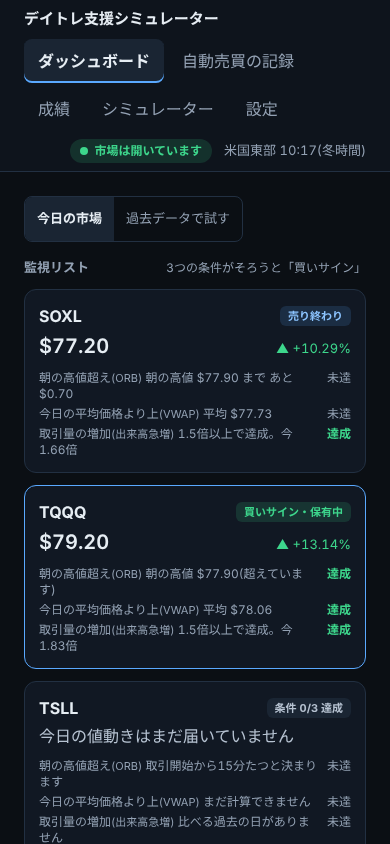
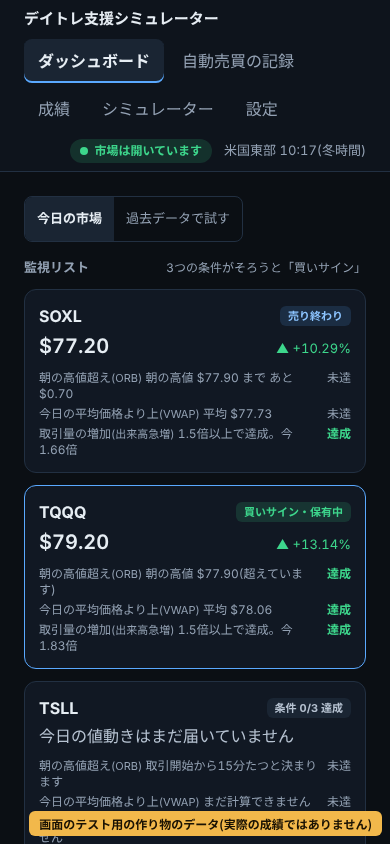
T12: レビューの指摘を直す
- 公開の材料を事実どおりに(gitleaks の失敗の記録、確かめていないこと、push protection の手順、名前の出る場所)
- README の書きすぎを直す(人間が決めた範囲、税金、測った条件、想定の利益率)
- 画像に作り物のデータの印を入れて撮り直す
- Tab で移動してもグラフの中で止まらないテスト、軸の目盛りの純粋関数と単体テスト

Claude-Session: https://claude.ai/code/session_01AvZ3VdHPvWiDQEuFMwCgxG

Changed region(s): [[0.0615, 0.955, 0.9846, 1.0]]

diff --git a/src/components/results/results-view.tsx b/src/components/results/results-view.tsx
@@ -9,6 +9,7 @@ import { formatSignedJpy, formatSignedRatio } from "@/components/dashboard/dashb
 import { formatDateJa, formatEasternDateTime, formatJpy } from "@/components/settings/format";
 import { cn } from "@/components/ui/cn";
 import { useRemoveChartLayersFromTabOrder } from "@/components/ui/use-chart-tab-order";
+import { pnlAxis } from "./results-model";
 
 type LoadState = { status: "loading" } | { status: "error" } | { status: "ready"; view: View };
 
@@ -140,13 +141,6 @@ function Fact({ label, children }: { label: string; children: React.ReactNode })
   );
 }
 
-/** 軸の端を切りのよい値にする(-86 は -90、1,234 は 2,000) */
-function roundAway(v: number): number {
-  if (v === 0) return 0;
-  const step = 10 ** Math.floor(Math.log10(Math.abs(v)));
-  return Math.sign(v) * Math.ceil(Math.abs(v) / step) * step;
-}
-
 const tone = (v: number) => (v > EPSILON ? "up" : v < -EPSILON ? "down" : "flat");
 const shortDate = (date: string) => `${Number(date.slice(5, 7))}/${Number(date.slice(8, 10))}`;
 
@@ -156,10 +150,7 @@ function DailyChart({ rows, idPrefix }: { rows: ResultRow[]; idPrefix: string })
   const plus = rows.filter((r) => tone(r.pnlJpy) === "up").length;
   const minus = rows.filter((r) => tone(r.pnlJpy) === "down").length;
   const data = rows.map((r) => ({ date: shortDate(r.date), pnl: r.pnlJpy }));
-  // 軸は 0円を必ず入れ、切りのよい端と、その半分に目盛りを置く
-  const lo = Math.min(0, roundAway(Math.min(...rows.map((r) => r.pnlJpy))));
-  const hi = Math.max(0, roundAway(Math.max(...rows.map((r) => r.pnlJpy))));
-  const ticks = [...new Set([lo, lo / 2, 0, hi / 2, hi])].sort((a, b) => a - b);
+  const axis = pnlAxis(rows.map((r) => r.pnlJpy));
   return (
     <figure className={cn(card, "m-0")}>
       <h3 className="text-[15px] font-semibold">日ごとの損益</h3>
@@ -174,8 +165,8 @@ function DailyChart({ rows, idPrefix }: { rows: ResultRow[]; idPrefix: string })
               stroke="var(--color-border)"
               width={56}
               // 0円を必ず入れる(1日だけの時も、棒が0円から上か下に伸びて見えるように。AC-004-06)
-              domain={[lo, hi]}
-              ticks={ticks}
+              domain={axis.domain}
+              ticks={axis.ticks}
               tickFormatter={(v: number) => `${Math.round(v)}円`}
             />
             <ReferenceLine y={0} stroke="var(--color-input)" />

diff --git a/e2e/results.spec.ts b/e2e/results.spec.ts
@@ -56,16 +56,25 @@ test.describe("成績の画面", () => {
     await expect(page.getByText("41日分の日ごとの損益。プラスの日(上向きの緑)が0日、マイナスの日(下向きの赤)が1日")).toBeVisible();
   });
 
-  test("AC-007-05: 読み上げから外したグラフの中に、キーボードで止まる先がない", async ({ page }) => {
+  test("AC-007-05: Tab で移動しても、読み上げから外したグラフの中では止まらない", async ({ page }) => {
     await open(page, "/results");
     await expect(page.getByTestId("backtest-chart").locator("svg")).toBeVisible();
-    for (const id of ["live-chart", "backtest-chart"]) {
-      const stops = await page
-        .getByTestId(id)
-        .locator("[tabindex]")
-        .evaluateAll((els) => els.filter((e) => Number(e.getAttribute("tabindex")) >= 0).length);
-      expect(stops).toBe(0);
+    // 日付のリンク(41件)の手前まで Tab を押し、止まった先がグラフの中でないことを毎回確かめる
+    let reachedTable = false;
+    for (let i = 0; i < 40 && !reachedTable; i++) {
+      await page.keyboard.press("Tab");
+      const where = await page.evaluate(() => {
+        const el = document.activeElement;
+        return {
+          inChart: !!el?.closest('[data-testid$="-chart"]'),
+          inBacktestTable: !!el?.closest('[data-testid="backtest-table"]'),
+        };
+      });
+      expect(where.inChart).toBe(false);
+      reachedTable = where.inBacktestTable;
     }
+    // 2つのグラフのあとにある、試した結果の表まで届いたこと(Tab の順がグラフを通り過ぎた証拠)
+    expect(reachedTable).toBe(true);
   });
 
   test("AC-004-02: 記録が0日なら「まだ記録がありません」と出す", async ({ page }) => {

diff --git a/src/components/results/results-model.test.ts b/src/components/results/results-model.test.ts
@@ -1,0 +1,30 @@
+import { describe, expect, it } from "vitest";
+import { pnlAxis, roundAway } from "./results-model";
+
+describe("日ごとの損益の棒グラフの軸(AC-004-06)", () => {
+  it("端は 0 から遠い側の切りのよい値", () => {
+    expect(roundAway(-86)).toBe(-90);
+    expect(roundAway(1234)).toBe(2000);
+    expect(roundAway(100)).toBe(100);
+    expect(roundAway(-0.4)).toBe(-1);
+    expect(roundAway(0)).toBe(0);
+  });
+
+  it("マイナスだけの日でも 0円を入れ、半分の位置にも目盛りを置く", () => {
+    expect(pnlAxis([-86.022])).toEqual({ domain: [-90, 0], ticks: [-90, -45, 0] });
+  });
+
+  it("プラスとマイナスがある時は両側に目盛りを置く", () => {
+    expect(pnlAxis([-310, 120, 0])).toEqual({ domain: [-400, 200], ticks: [-400, -200, 0, 100, 200] });
+  });
+
+  it("境界: 半分の値が整数にならない時は、半分の目盛りを置かない", () => {
+    expect(pnlAxis([-3])).toEqual({ domain: [-3, 0], ticks: [-3, 0] });
+    expect(pnlAxis([9])).toEqual({ domain: [0, 9], ticks: [0, 9] });
+  });
+
+  it("境界: 1円未満の損益だけの日は ±1円、全部 0円の日だけなら -1 から 1", () => {
+    expect(pnlAxis([0.3])).toEqual({ domain: [0, 1], ticks: [0, 1] });
+    expect(pnlAxis([0, 0])).toEqual({ domain: [-1, 1], ticks: [0] });
+  });
+});

diff --git a/src/components/results/results-model.ts b/src/components/results/results-model.ts
@@ -1,0 +1,21 @@
+/** 軸の端を、0から遠い側の切りのよい円の値にする(-86 は -90、1,234 は 2,000、1円未満は 1円) */
+export function roundAway(v: number): number {
+  if (v === 0) return 0;
+  const abs = Math.abs(v);
+  const step = abs < 1 ? 1 : 10 ** Math.floor(Math.log10(abs));
+  return Math.sign(v) * Math.ceil(abs / step) * step;
+}
+
+/**
+ * 日ごとの損益の棒グラフの軸(AC-004-06)。0円を必ず入れ、両端は切りのよい値にする。
+ * 端の半分の値が整数の円になる時だけ、その位置にも目盛りを置く(-3円の半分の -1.5 は置かない)
+ */
+export function pnlAxis(values: readonly number[]): { domain: [number, number]; ticks: number[] } {
+  const lo = values.length === 0 ? 0 : Math.min(0, roundAway(Math.min(...values)));
+  const hi = values.length === 0 ? 0 : Math.max(0, roundAway(Math.max(...values)));
+  const candidates = [lo, lo / 2, 0, hi / 2, hi].filter((t) => Number.isInteger(t));
+  // 損益がすべて 0円の日だけの時も、軸に幅を持たせる
+  const domain: [number, number] = lo === 0 && hi === 0 ? [-1, 1] : [lo, hi];
+  const ticks = [...new Set(candidates.map((t) => (Object.is(t, -0) ? 0 : t)))].sort((a, b) => a - b);
+  return { domain, ticks };
+}

diff --git a/docs/ai-log/2026-11-20-t12-finish.md b/docs/ai-log/2026-11-20-t12-finish.md
@@ -19,20 +19,60 @@ PR #12(T11)のマージを受けて T12(README、幅 390px と色の比の確認
 - LICENSE(MIT)
 - docs/release/publication-checklist.md: 公開の判断の材料
 - 成績の画面の棒グラフ: 読み上げから外したグラフの中にキーボードで止まる先があったのを直した。軸の目盛りを切りのよい値にした
-- e2e: グラフの中にキーボードで止まる先がないことを確かめるテストを足した
+- e2e: Tab で移動してもグラフの中で止まらないことを確かめるテストを足した。直す前の形(accessibilityLayer を消す)に戻すと失敗することを確かめた
+- 棒グラフの軸の目盛りを純粋関数(results-model.ts)に出し、手計算と比べる単体テストを置いた
+- README の画像に「画面のテスト用の作り物のデータ」の印を入れて撮り直した
 
 ## 確かめたこと(証拠)
 
-- axe-core(WCAG 2.1 AA の規則)を、テスト用のデータで全6画面(ダッシュボード、記録、成績、シミュレーター、設定、過去データで試した日)、1440px と 390px の幅で動かした。成績の画面で aria-hidden-focus が2件(2つのグラフ)見つかり、直したあとは0件。axe-core は依存に入れず、作業環境で一度だけ動かした
+- axe-core(WCAG 2.1 AA の規則)を、テスト用のデータで全6画面(ダッシュボード、記録、成績、シミュレーター、設定、過去データで試した日)、1440px と 390px の幅で動かした。成績の画面で aria-hidden-focus の規則に2か所(2つのグラフ)当たり、直したあとは0件。axe-core は依存に入れず、作業環境で一度だけ動かした
 - 同じ12通りで、横にはみ出していないこと(0px)を確かめ、スクリーンショットを撮って見た
-- 単体テスト 477件、型チェック、lint、画面のテスト 150件(ほかに幅の違いで飛ばした 18件)が成功
+- 単体テスト、型チェック、lint、画面のテストが成功(件数は PR に書く)
 - 全コミットの作者とコミッター、全履歴の差分に、個人のメールアドレスがないことを検索で確かめた
+
+## レビュー(reviewer、security-reviewer)と対応
+
+reviewer の指摘は13件(中 4、低 9)、security-reviewer の指摘は8件(中 3、低 5)。spec や設計の判断が要るものはなかったので、人間の指示(2026-11-19)により AI が推奨どおりに対応した。
+
+### reviewer
+
+| 番号 | 重要度 | 指摘(要点) | 対応 |
+|---|---|---|---|
+| 1 | 中 | 材料に「gitleaks は毎回成功」とあるが、PR #9 で一度失敗している | 事実どおりに書き直した |
+| 2 | 中 | README の「レビューの判断は人間」は書きすぎ(指摘の多くは人間の指示で AI が直している) | 任せた範囲を書いた |
+| 3 | 中 | 画像だけを見ると本物の画面に見える | 画像に作り物のデータの印を入れ、免責が写る高さで撮り直した |
+| 4 | 中 | AC-007-04 の確かめ方(人間がスクリーンショットを見る)が済んでいないのに「成功」 | 画面のテストと人間の確かめを分けて書き、マージの前に人間に依頼する |
+| 5 | 低 | シミュレーターは税金を引けるのに「税金を含まない」とまとめている | 分けて書いた |
+| 6 | 低 | 1年分の時間を、測った条件なしに書いている | 条件と、測っていないことを書いた |
+| 7 | 低 | axe-core の件数の書き方がそろっていない。CI に入れていないことが書かれていない | そろえて、一度だけ動かしたことを書いた |
+| 8 | 低 | 足したテストは tabindex だけを見ていて、Chrome の Tab の止まり先の問題を見つけられない | 実際に Tab で移動するテストにし、直す前の形で失敗することを確かめた |
+| 9 | 低 | 軸の半分の目盛りが半端な値になる場合がある。テストがない | 純粋関数に出し、半分が整数でない時は置かないようにして、単体テストを置いた |
+| 10 | 低 | 作者の名前が出る場所の列挙が足りない | 足した |
+| 11 | 低 | Claude-Session のリンクを開けないことを確かめていない | 「確かめていない」に直した |
+| 12 | 低 | 「1日あたりの利益率」は実際の値のように読める | 「想定の利益率」に直した |
+| 13 | 低 | security-reviewer は変更の種類によって動かすのに、いつも動かすように読める | 直した |
+
+### security-reviewer
+
+| 番号 | 重要度 | 指摘(要点) | 対応 |
+|---|---|---|---|
+| 1 | 中 | reviewer 1 と同じ(gitleaks の失敗の記録) | 直した |
+| 2 | 中 | reviewer 11 と同じ | 直した |
+| 3 | 中 | 公開の手順に、push protection を決めること(ADR-0006)がない | 手順に足した |
+| 4 | 低 | reviewer 10 と同じ | 直した |
+| 5 | 低 | CI のファイルの検査は今のファイルだけを見る | 書き分けた |
+| 6 | 低 | 本物のデータの画像を載せてよいか(Alpaca の利用規約)が未確認 | 「確かめていないこと」に足した |
+| 7 | 低 | 画像に実在する銘柄が写っている | 直さない(推奨どおり。作り物の印がある) |
+| 8 | 低 | CLAUDE.md の「面接官」の言葉 | 直さない(推奨どおり) |
 
 ## AI が間違えた点と学び
 
 | 間違えた点 | どう分かったか | 次からどうするか |
 |---|---|---|
 | T11 で、読み上げから外したグラフ(aria-hidden)の中に、Recharts がキーボードで止まる先を作るのを見落とした | axe-core で見つかった | 絵を読み上げから外す時は、中にフォーカスできるものがないことも確かめる |
+| 公開の材料に「gitleaks は毎回成功」と、確かめずに書いた | reviewer と security-reviewer の指摘 1 | 「毎回」「すべて」と書く前に、記録(CI の履歴)を見る |
+| README で、人間が判断した範囲を広く書いた | reviewer の指摘 2 | 人間に任された範囲と、人間が決めた範囲を分けて書く |
+| 新しいテストを、直す前の形で失敗するか確かめずに足した | reviewer の指摘 8 | テストを足したら、壊すと失敗することを毎回確かめる |
 | T11 の棒グラフの軸の目盛りが -11、-36 のような半端な値だった | スクリーンショットを見て分かった | グラフはテストが通っても、必ず画面で見る |
 
 ## 確かめていないこと

diff --git a/docs/release/publication-checklist.md b/docs/release/publication-checklist.md
@@ -9,20 +9,20 @@
 
 | 観点 | 確かめた方法 | 結果 |
 |---|---|---|
-| 接続用キーなどの秘密 | CI の gitleaks がリポジトリの全履歴を調べる(PR #12 のマージまで毎回成功)。検査が働くことも、偽のキーで毎回確かめている | 見つかっていない。テストのダミーのキーだけが、決めた形で除外されている |
-| コミットしてはいけないファイル | CI で `data/`、`.db`、`.env` が入っていないことを確かめる。`.env.example` はダミー値だけ | 入っていない |
+| 接続用キーなどの秘密 | CI の gitleaks がリポジトリの全履歴を調べる(PR #8 で入れた)。検査が働くことも、偽のキーで毎回確かめている。T12 の security-reviewer が全履歴をキーの形で検索した | PR #9(T8)で一度、テストのダミーのキーを見つけて失敗した(本物ではないことをログで確かめ、除外の形を足した)。そのあとは毎回成功。本物のキーは見つかっていない |
+| コミットしてはいけないファイル | CI で `data/`、`.db`、`.env` が入っていないことを確かめる(CI は今のファイルだけを見る)。全履歴は T12 の security-reviewer がファイルの名前で検索した。`.env.example` はダミー値だけ | 入っていない |
 | 個人のメールアドレス | 全コミットの作者とコミッター、全履歴の差分を検索した | 作者は GitHub の noreply のアドレス、コミッターは GitHub(マージ)と noreply だけ。個人のメールアドレスは見つからなかった |
-| 住所などの個人の情報 | リポジトリの全ファイルを、住所や連絡先の言葉で検索した | 見つからなかった。作者の名前(小田裕貴)は、コミットの作者、LICENSE、CLAUDE.md にある |
+| 住所などの個人の情報 | リポジトリの全ファイルと PR の本文を、住所や連絡先の言葉で検索した | 見つからなかった。作者の名前(小田裕貴)は、コミットの作者、LICENSE、CLAUDE.md、ADR-0001、この文書にある |
 | 市場データ | `data/` はコミットしない。README の画面の画像は、画面のテスト用の作り物のデータで撮った | Alpaca から取った値動きは入っていない |
 | 使っている部品のライセンス | Lightweight Charts(Apache-2.0)は、チャートの上の帰属表示(ADR-0002)。ほかの依存は npm から入れるだけで、リポジトリに含めていない | 帰属表示は画面のテストで確かめている(AC-007-13) |
 | ライセンス | 人間が MIT を選んだ(2026-11-20)。無保証と、責任を負わないことが書かれる | LICENSE を足した |
 | 免責 | 全画面の下部、成績の画面の上部、README に、投資助言ではないこと、将来の利益を示さないことを書いている | 画面のテストで確かめている(AC-007-01、AC-004-05) |
-| アクセシビリティ | 色の比の単体テスト。仕上げで axe-core(WCAG 2.1 AA の規則)を全6画面、デスクトップとスマホの幅で動かした | 1件(読み上げから外したグラフの中のフォーカス)を見つけて直した。直したあとは0件(テスト用のデータで) |
-| スマホの幅 | 画面のテストで、全画面が 390px で横にはみ出さないこと、表が枠の中で横に動かせることを確かめる | 成功 |
+| アクセシビリティ | 色の比の単体テスト。仕上げで axe-core(WCAG 2.1 AA の規則)を作業環境で一度だけ、全6画面、デスクトップとスマホの幅で動かした(CI には入れていない) | 1つの規則の2か所(読み上げから外したグラフの中のフォーカス)を見つけて直した。直したあとは0件(テスト用のデータで)。Tab で止まらないことを画面のテストにした |
+| スマホの幅 | 画面のテストで、全画面が 390px で横にはみ出さないこと、表が枠の中で横に動かせることを確かめる。AC-007-04 の確かめ方(390px と 1440px のスクリーンショットを人間が見る)は、T12 のマージの前に人間に依頼した | 画面のテストは成功。人間の確かめは依頼中 |
 
 ## 公開すると見えるもの(知っておくこと)
 
-- コミットの説明の最後に、AI の作業の記録へのリンク(Claude-Session)がある。リンク先は作者のアカウントでしか開けない
+- コミットの説明の最後に、AI の作業の記録へのリンク(Claude-Session)がある。リンク先は作者のアカウントでしか開けない見込み(確かめていない)
 - docs/ai-log に、AI が間違えた点、人間とのやりとりの要点が書いてある。良く見せすぎないように書いている
 - プルリクエストの本文(AI レビューの指摘と人間の判断)も公開される
 - 作者の名前が LICENSE、コミット、CLAUDE.md に出る
@@ -32,10 +32,14 @@
 - 本物の市場データをためた状態での画面と成績(作者の Mac で動いている)
 - Safari での見え方(画面のテストは Chrome だけ)
 - 公開したあとに、README の画像と表が GitHub でどう見えるか
+- Claude-Session のリンクを、ログインしていない状態で開けないか
+- 本物の市場データで撮った画面を載せてよいか(Alpaca の利用規約。ADR-0005)。確かめるまで、本物のデータの画像は載せない
+- GitHub Actions のログ(公開すると見える)の中身。失敗した1件のログは、見つけた値が隠されていることを確かめた
 
 ## 公開する時の手順(人間が行う)
 
 1. この PR(T12)をマージする
 2. GitHub のリポジトリの Settings で、Visibility を Public にする
-3. 公開したあとに、README の画像と表が GitHub で正しく出ることを見る
-4. 公開しない場合は、この文書に「非公開のまま」と理由を書き足す
+3. Settings の Code security で、secret scanning と push protection を有効にするかを決める(ADR-0006。公開リポジトリでは無料で使える見込み、確かめていない)
+4. 公開したあとに、README の画像と表が GitHub で正しく出ることを見る
+5. 公開しない場合は、この文書に「非公開のまま」と理由を書き足す

diff --git a/README.md b/README.md
@@ -2,18 +2,19 @@
 
 米国株デイトレードのルールを検証するためのアプリです。実際の市場データ(15分遅れ)をためて、決めたルールどおりに練習売買(ペーパートレード)を自動で記録し、成績をためます。実際の発注はしません。
 
-個人のポートフォリオとして作りました。仕様、設計の判断、レビューの判断は人間(作者)が行い、実装、テスト、セルフレビューは AI(Claude)が行う進め方で作っています(下の「作り方」)。
+個人のポートフォリオとして作りました。仕様、設計の判断、spec の変更、マージは人間(作者)が決め、実装、テスト、AI によるレビューと指摘の修正は AI(Claude)が行う進め方で作っています(下の「作り方」)。
 
 ## 免責事項
 
 - 本アプリは技術検証とシミュレーションが目的で、投資助言・推奨ではありません
 - 実際の発注は行いません。証券会社とも接続しません。実際の売買に使わないでください
-- 練習売買の成績、過去データで試した結果、シミュレーションの結果は、将来の利益を示すものではありません。手数料と税金は含みません
+- 練習売買の成績、過去データで試した結果、シミュレーションの結果は、将来の利益を示すものではありません
+- 練習売買の成績と過去データで試した結果は、手数料と税金を含みません
 - ライセンス(MIT)のとおり、無保証です
 
 ## 画面
 
-画面のテスト用の作り物のデータ(2026-11-02 の取引の途中と、過去データで試した41日分)で撮ったものです。実際の成績ではありません。
+画面のテスト用の作り物のデータ(2026-11-02 の取引の途中と、過去データで試した41日分)で撮ったものです。画像の左上にもその旨を入れています。実際の成績ではありません。
 
 | ダッシュボード | 成績 |
 |---|---|
@@ -28,7 +29,7 @@
 - **ダッシュボード**: 価格チャート(TradingView Lightweight Charts)、条件の達成状況、今日のお金の状況、ワーカーが止まっていないか(SPEC-007)
 - **成績**: 日ごとの損益と残高、まとめ、棒グラフ(SPEC-004)
 - **過去データで試す**: 取り込んだ過去の値動きで、同じルールを試す。結果は毎日の記録と分けて出す(ADR-0010)
-- **資産シミュレーター**: 1日あたりの利益率、貯金へ回す割合、税金から、複利の資産の推移を計算する(SPEC-005)
+- **資産シミュレーター**: 1日あたりの想定の利益率が一定で続いたと仮定して、貯金へ回す割合と税金を入れ、複利の資産の推移を計算する(SPEC-005)
 
 ## 作り
 
@@ -51,7 +52,7 @@
 - CI(GitHub Actions): 型チェック、lint、単体テスト(Vitest)、画面のテスト(Playwright。デスクトップとスマホの幅)、秘密の混入検査(gitleaks で全履歴)
 - 受け入れ基準ごとにテストを書き、テスト名に受け入れ基準の ID を入れています(例: `AC-003-01`)
 - 画面のテストは、本番の DB とは別の DB と、通信しないテスト用の取得元、止まった時計で動きます
-- 色の組み合わせは WCAG AA の比を単体テストで計算しています。仕上げ(T12)で axe-core でも全画面を見て、見つかった1件(読み上げから外したグラフの中のフォーカス)を直しました
+- 色の組み合わせは WCAG AA の比を単体テストで計算しています。仕上げ(T12)で axe-core を作業環境で一度だけ動かし(CI には入れていない)、テスト用のデータの全画面を見ました。見つかった1つの規則の2か所(読み上げから外したグラフの中のフォーカス)を直しました
 
 ## 作り方(AI 駆動開発)
 
@@ -59,8 +60,8 @@
 
 1. 機能は spec(ID 付きの受け入れ基準)から始め、plan、tasks、実装の順に進める
 2. 設計の判断は、実装より先に ADR に選択肢、評価、推奨を書き、人間が決める
-3. 実装はブランチで行い、AI の reviewer と security-reviewer がレビューする。指摘は番号、重要度、推奨を付け、spec や設計の判断が要るものは人間が決める
-4. プルリクエストには「AI レビューの指摘」と「人間の判断」を分けて書き、マージは人間が行う
+3. 実装はブランチで行い、AI の reviewer がレビューする。秘密、外部との通信、保存するデータに触れる変更では security-reviewer もレビューする。指摘は番号、重要度、推奨を付ける。spec や設計の判断が要る指摘は人間が決め、そのほかの指摘は、人間の指示(2026-11-19)により AI が推奨どおりに直す
+4. プルリクエストには「AI レビューの指摘」と「人間の判断」を分けて書き、人間が見てマージする
 5. タスクごとに、AI が間違えた点を含めて記録を残す
 
 - 設計の判断: [docs/adr/](docs/adr/)(10件)
@@ -73,7 +74,7 @@
 - 自分の Mac で動かす前提です。取引時間(日本時間の夜から朝)にワーカーが動いていないと、その日は記録しません
 - データは15分遅れの5分足です。実際の約定の値段、手数料、税金は再現していません
 - 休場日の表は 2025 年から 2027 年までです。それより先は表の更新が要ります
-- 過去データで試す処理は画面のサーバーの中で同期で動き、1年分で数秒かかります。その間はほかの画面の読み込みが待たされます(ADR-0010)
+- 過去データで試す処理は画面のサーバーの中で同期で動き、その間はほかの画面の読み込みが待たされます。売買のない作り物の足で測って、1年分で約4秒から6秒でした。本物の足と利用者の Mac では測っていません(ADR-0010)
 - 接続用キーは暗号化せずに DB に保存します(ADR-0006)
 
 ## 開発の始め方
